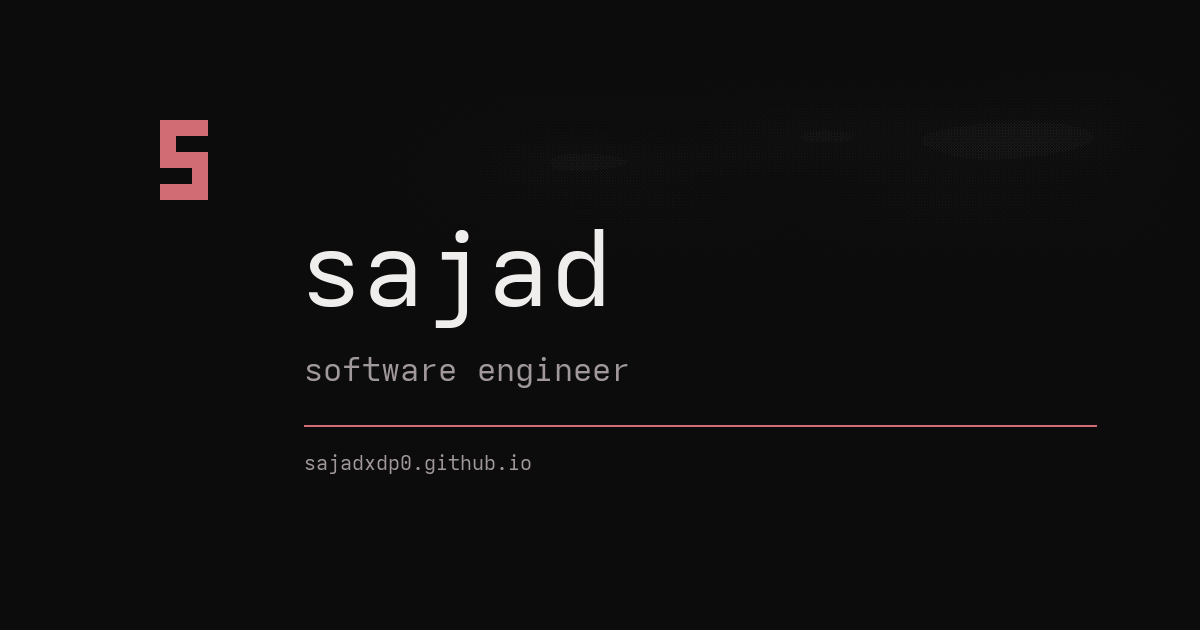
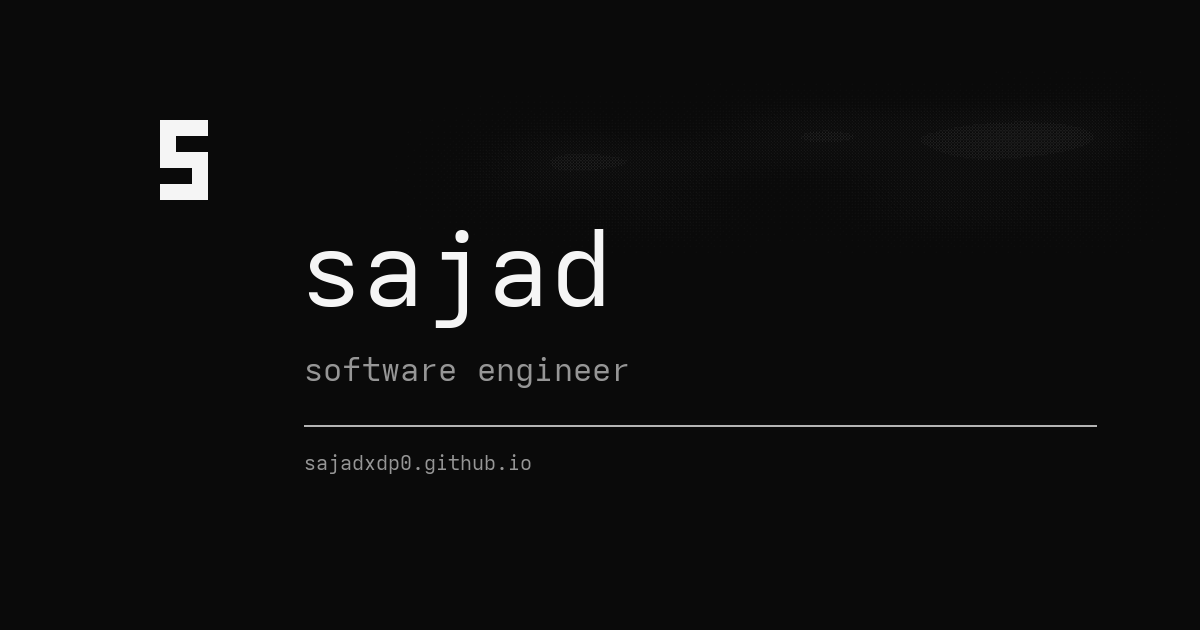
Switch portfolio to monochrome and polish project rows

Changed region(s): [[0.2775, 0.6635, 0.8942, 0.6937], [0.1233, 0.181, 0.185, 0.3317]]

diff --git a/style.css b/style.css
@@ -1,20 +1,20 @@
-/* sajadxdp0.github.io - edition 11, dark.
-   One near-black ground, warm paper text, one oxide signal.
+/* sajadxdp0.github.io - edition 12, black and white.
+   One black ground, white text, greys for everything quiet.
    The dithered cloud band is the only illustration; it lives behind
    the landing copy and fades into the ground at both edges.
    Static HTML/CSS/JS, no build step, no frameworks, no looping motion. */
 
 :root {
   color-scheme: dark;
-  --bg: #0c0c0d;
-  --surface: #171516;
-  --paper: #f0eded;
-  --paper-soft: #bfb8ba;
-  --dim: #a1989a;
-  --line: #32292c;
-  --line-soft: #221e20;
-  --accent: #d16c75;
-  --accent-bright: #f0a1a7;
+  --bg: #0a0a0a;
+  --surface: #141414;
+  --paper: #f5f5f5;
+  --paper-soft: #bcbcbc;
+  --dim: #8a8a8a;
+  --line: #2a2a2a;
+  --line-soft: #1f1f1f;
+  --accent: #ffffff;
+  --accent-bright: #ffffff;
   --sans: system-ui, -apple-system, 'Segoe UI', Roboto, 'Helvetica Neue', Arial, sans-serif;
   --mono: ui-monospace, 'SF Mono', 'Cascadia Mono', Menlo, Consolas, monospace;
   --content: 62rem;
@@ -234,9 +234,18 @@ ul.rows {
   border-top: 1px solid var(--line-soft);
   padding: 1.25rem 0 1.35rem;
   display: grid;
-  grid-template-columns: 11rem minmax(0, 1fr);
-  gap: .35rem 2rem;
+  grid-template-columns: 2.5rem 10rem minmax(0, 1fr);
+  gap: .35rem 1.5rem;
   align-items: baseline;
+  transition: background-color .15s ease;
+}
+
+.row:hover { background: var(--surface); }
+
+.row-index {
+  color: var(--dim);
+  font: 400 .72rem/1.4 var(--mono);
+  font-variant-numeric: tabular-nums;
 }
 
 .row-title {
@@ -247,6 +256,9 @@ ul.rows {
 
 .row-title:hover { color: var(--accent); }
 
+.ext { color: var(--dim); margin-left: .35rem; }
+.row-title:hover .ext { color: var(--paper); }
+
 .row > p:not(.links-line) {
   margin: 0;
   color: var(--paper-soft);
@@ -255,7 +267,7 @@ ul.rows {
 }
 
 .links-line {
-  grid-column: 2;
+  grid-column: 3;
   font: 400 .72rem/1.7 var(--mono);
   color: var(--dim);
   margin: .15rem 0 0;
@@ -313,8 +325,12 @@ footer p { margin: 0; }
   .hero::before { background-size: auto 100%; background-position: 70% top; }
   .hero h1 { font-size: 2.4rem; }
   nav[aria-label="Primary"] { gap: .3rem 1rem; font-size: .7rem; }
-  .row { grid-template-columns: 1fr; gap: .25rem; }
-  .links-line { grid-column: 1; }
+  .row { grid-template-columns: 2.5rem minmax(0, 1fr); gap: .25rem 1rem; }
+  .links-line { grid-column: 2; }
+}
+
+@media (prefers-reduced-motion: reduce) {
+  .row { transition: none; }
 }
 
 @media print {

diff --git a/projects.html b/projects.html
@@ -4,7 +4,7 @@
 <meta charset="utf-8">
 <meta name="viewport" content="width=device-width, initial-scale=1.0, viewport-fit=cover">
 <meta name="color-scheme" content="dark">
-<meta name="theme-color" content="#0c0c0d">
+<meta name="theme-color" content="#0a0a0a">
 <title>Projects · Sajad</title>
 <meta name="description" content="Selected projects by Sajad: Lexora, HookFlow, EsenceLab, and neuDB.">
 <meta name="author" content="Abdulla Sajad">
@@ -41,22 +41,26 @@
 
   <ul class="rows">
     <li class="row">
-      <a class="row-title" href="https://github.com/sajadxdp0/lexora-ai">Lexora</a>
+      <span class="row-index">01</span>
+      <a class="row-title" href="https://github.com/sajadxdp0/lexora-ai">Lexora<span class="ext" aria-hidden="true">↗</span></a>
       <p>Document Q&amp;A with cited sources</p>
       <p class="links-line">python&nbsp;· fastapi&nbsp;· postgresql&nbsp;· redis&nbsp;· celery&nbsp;· faiss</p>
     </li>
     <li class="row">
-      <a class="row-title" href="https://github.com/sajadxdp0/hookflow">HookFlow</a>
+      <span class="row-index">02</span>
+      <a class="row-title" href="https://github.com/sajadxdp0/hookflow">HookFlow<span class="ext" aria-hidden="true">↗</span></a>
       <p>Webhook delivery with retries, idempotency, and a dead-letter queue</p>
       <p class="links-line">python&nbsp;· fastapi&nbsp;· postgresql&nbsp;· redis&nbsp;· next.js</p>
     </li>
     <li class="row">
-      <a class="row-title" href="https://github.com/sajadxdp0/esencelab">EsenceLab</a>
+      <span class="row-index">03</span>
+      <a class="row-title" href="https://github.com/sajadxdp0/esencelab">EsenceLab<span class="ext" aria-hidden="true">↗</span></a>
       <p>Hiring platform with resume parsing and skill matching</p>
       <p class="links-line">typescript&nbsp;· next.js&nbsp;· express&nbsp;· fastapi&nbsp;· postgresql</p>
     </li>
     <li class="row">
-      <a class="row-title" href="https://github.com/sajadxdp0/neudb">neuDB</a>
+      <span class="row-index">04</span>
+      <a class="row-title" href="https://github.com/sajadxdp0/neudb">neuDB<span class="ext" aria-hidden="true">↗</span></a>
       <p>Embedded Python database with JSON tables and search</p>
       <p class="links-line">python&nbsp;· stdlib only&nbsp;· <a href="https://sajadxdp0.github.io/neudb/">promo site</a></p>
     </li>

diff --git a/contact.html b/contact.html
@@ -4,7 +4,7 @@
 <meta charset="utf-8">
 <meta name="viewport" content="width=device-width, initial-scale=1.0, viewport-fit=cover">
 <meta name="color-scheme" content="dark">
-<meta name="theme-color" content="#0c0c0d">
+<meta name="theme-color" content="#0a0a0a">
 <title>Contact · Sajad</title>
 <meta name="description" content="Get in touch with Sajad via email, GitHub, or LinkedIn.">
 <meta name="author" content="Abdulla Sajad">

diff --git a/index.html b/index.html
@@ -4,7 +4,7 @@
 <meta charset="utf-8">
 <meta name="viewport" content="width=device-width, initial-scale=1.0, viewport-fit=cover">
 <meta name="color-scheme" content="dark">
-<meta name="theme-color" content="#0c0c0d">
+<meta name="theme-color" content="#0a0a0a">
 <title>Sajad · Software Engineer</title>
 <meta name="description" content="Sajad, software engineer">
 <meta name="author" content="Abdulla Sajad">

diff --git a/docs/PRODUCT.md b/docs/PRODUCT.md
@@ -15,10 +15,10 @@ LinkedIn / email contact. No blog, no feed, no archive, no subpages.
 - Three pages: `index.html` (the About page), `projects.html`,
   `contact.html`. No 404 page, no project subdirectories. Every
   project title links its GitHub repo directly.
-- `style.css` (edition 11, dark only: ink `#0c0c0d`, paper `#f0eded`,
-  dim `#a1989a`, oxide accent `#d16c75`, hairlines `#32292c`/`#221e20`;
-  62rem document column, 42rem read column, flat title rows,
-  mono meta text, no animation)
+- `style.css` (edition 12, black and white only: ground `#0a0a0a`,
+  paper `#f5f5f5`, greys `#bcbcbc`/`#8a8a8a`, hairlines `#2a2a2a`/`#1f1f1f`;
+  62rem document column, 42rem read column, numbered flat title rows,
+  mono meta text, no looping motion)
 - `assets/clouds.png` — ordered-dither cloud band, used only behind the
   landing copy and faded out at both edges with mask gradients
 - `script.js` (footer year, active-nav marking, mailto copy button)
